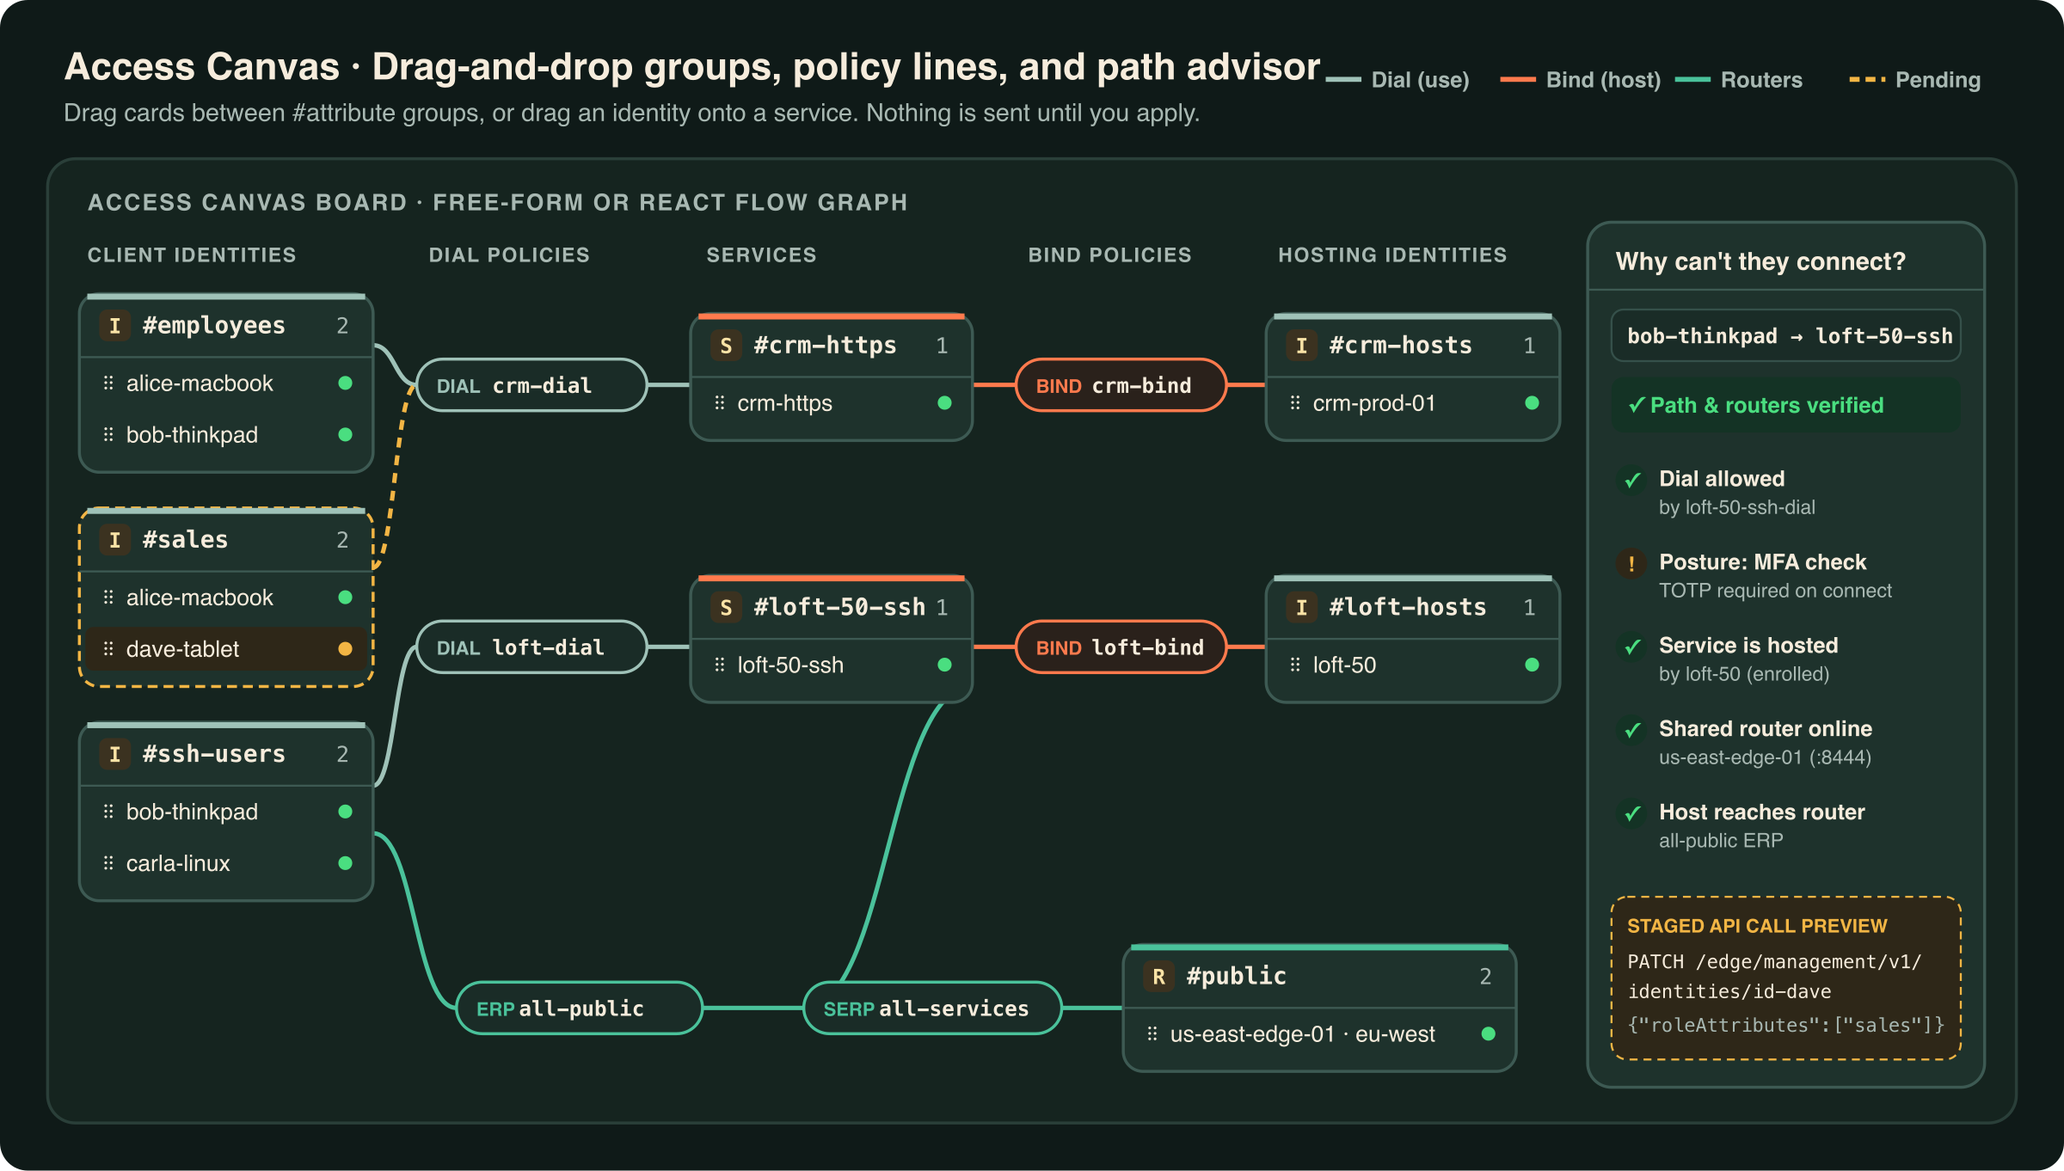
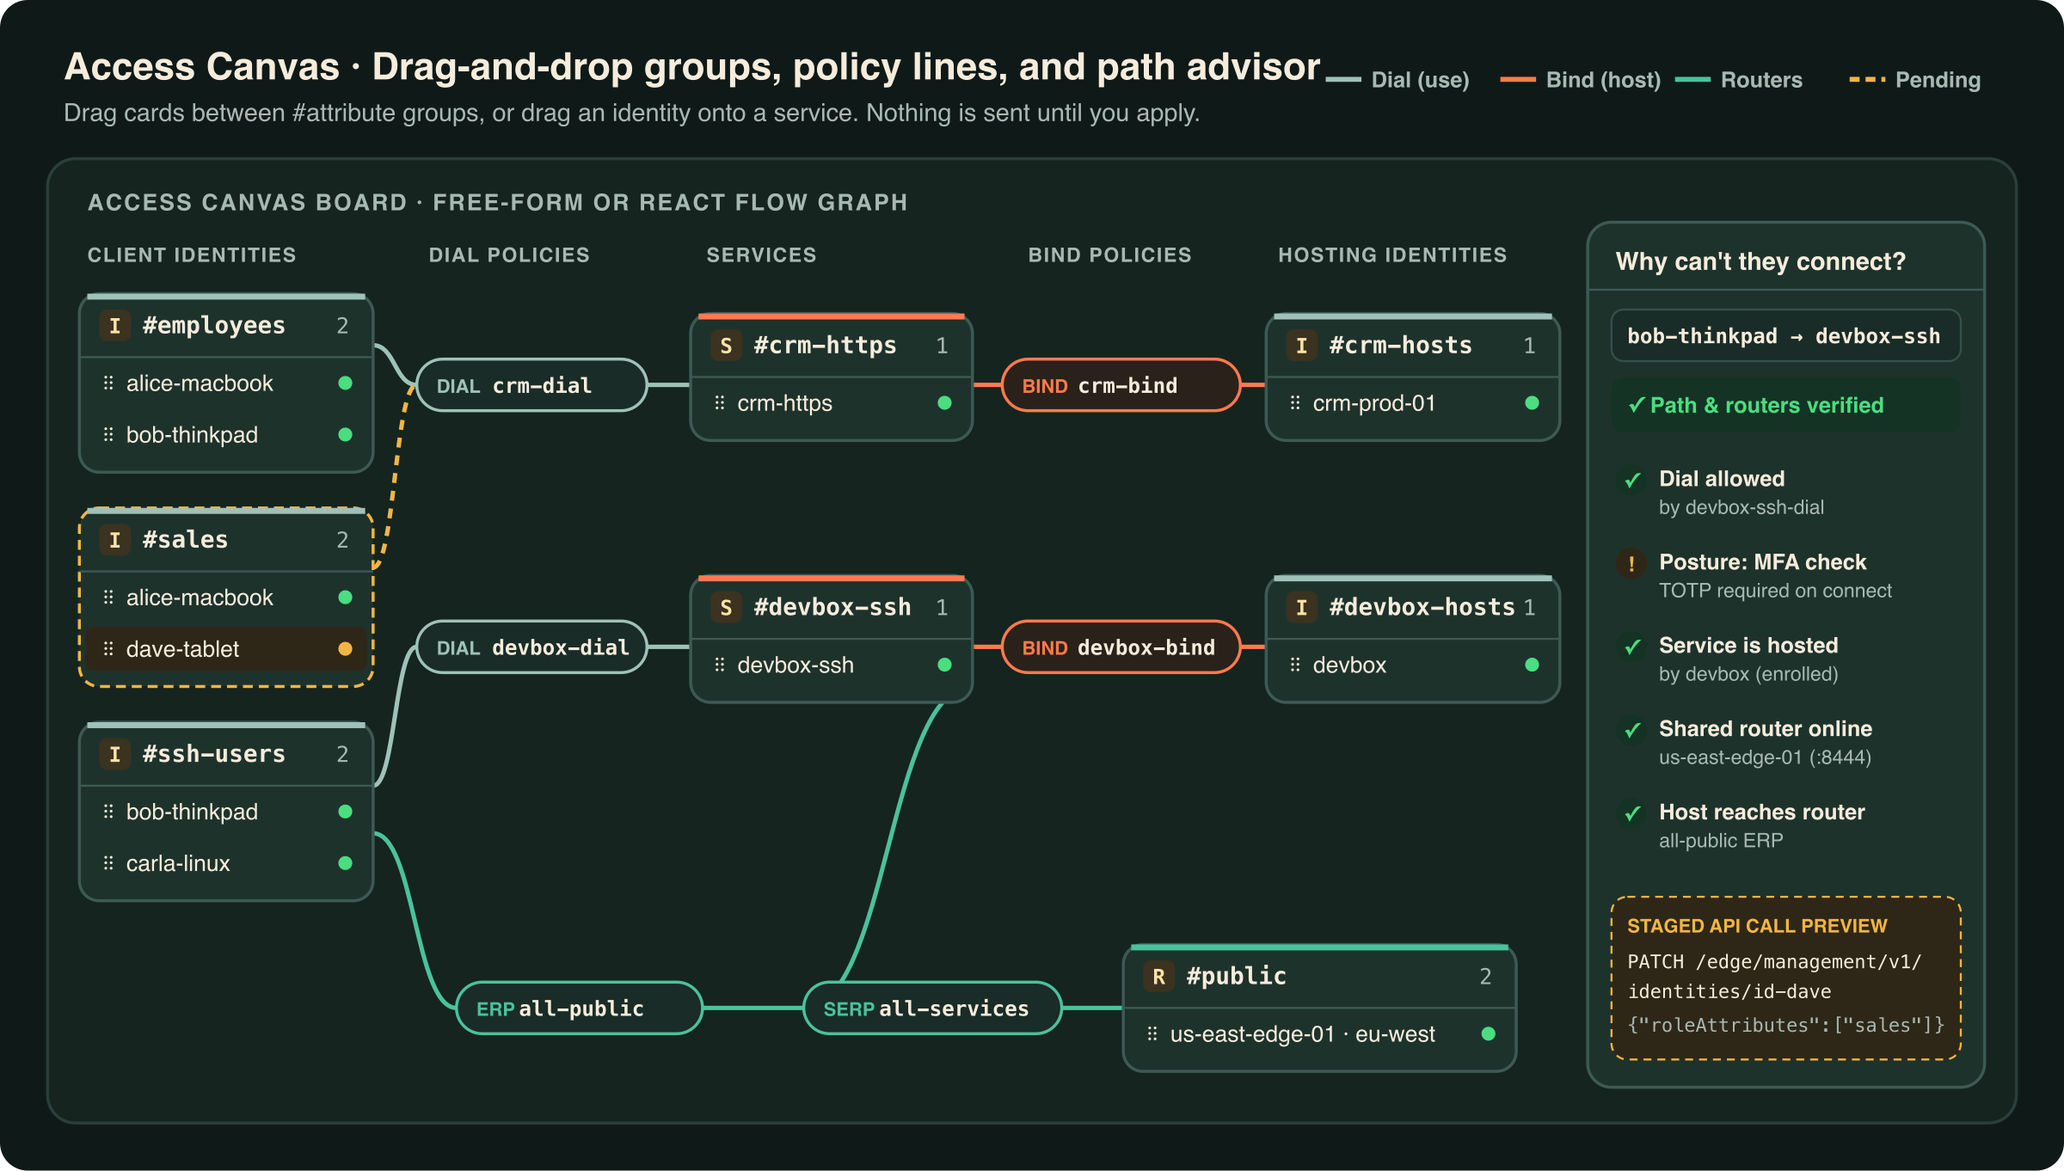
Prepare repository for public release
- Rename the loft-50 sample host to devbox in demo data, tests, README and diagrams
- Add CONTRIBUTING.md and link it from the README
- Set version 0.1.0 and repository, homepage and bugs fields
- Pin CI actions to commit SHAs and add Dependabot for npm and Actions

diff --git a/src/features/access-canvas/access-wizard.logic.spec.ts b/src/features/access-canvas/access-wizard.logic.spec.ts
@@ -10,7 +10,7 @@ function model(withRouterPolicies = true): AcModel {
       { id: 'i2', name: 'dev-macbook-pro', attrs: [], enrolled: false, online: false, isAdmin: false },
       { id: 'adm', name: 'admin', attrs: [], enrolled: true, online: false, isAdmin: true },
     ],
-    services: [{ id: 's1', name: 'loft-50-ssh', attrs: ['ssh'], configs: [] }],
+    services: [{ id: 's1', name: 'devbox-ssh', attrs: ['ssh'], configs: [] }],
     routers: [{ id: 'r1', name: 'router-instance-1', attrs: [], online: true }],
     servicePolicies: [],
     erPolicies: withRouterPolicies
@@ -58,12 +58,12 @@ describe('access-wizard.logic', () => {
   });
 
   it('rejects names that already exist and bad ports', () => {
-    const w = blankInput('ssh', 'loft-50');
+    const w = blankInput('ssh', 'devbox');
     w.interceptPort = 70000;
     const fields = validate(model(), w).map((c) => c.field);
     expect(fields).toContain('serviceName');
     expect(fields).toContain('interceptPort');
-    w.serviceName = 'loft-50-ssh2';
+    w.serviceName = 'devbox-ssh2';
     w.interceptPort = 22;
     expect(validate(model(), w).map((c) => c.field)).toEqual(['newUserName']);
     w.newUserName = 'jdoe-laptop';
@@ -222,19 +222,19 @@ describe('access-wizard.logic', () => {
 
   it('allows updating and repairing existing service, configs, and policies when reuseExisting is enabled', () => {
     const m = model();
-    m.configs = [{ id: 'cfg-ic', name: 'loft-50-ssh.intercept.v1' }];
+    m.configs = [{ id: 'cfg-ic', name: 'devbox-ssh.intercept.v1' }];
     m.servicePolicies = [
       {
         id: 'sp-bind',
-        name: 'loft-50-ssh-bind',
+        name: 'devbox-ssh-bind',
         type: 'Bind',
         semantic: 'AnyOf',
         identityRoles: ['#legacy-hosts'],
-        serviceRoles: ['#loft-50-ssh'],
+        serviceRoles: ['#devbox-ssh'],
         posture: [],
       },
     ];
-    const w = blankInput('ssh', 'loft-50');
+    const w = blankInput('ssh', 'devbox');
     w.hostMode = 'existing';
     w.hostId = 'i1';
     w.userMode = 'existing';
@@ -244,20 +244,20 @@ describe('access-wizard.logic', () => {
     expect(validate(m, w)).toEqual([]);
     const p = plan(m, w, ids());
 
-    const icOp = p.ops.find((o) => o.op === 'createConfig' && o.config.name === 'loft-50-ssh.intercept.v1') as any;
-    const hcOp = p.ops.find((o) => o.op === 'createConfig' && o.config.name === 'loft-50-ssh.host.v1') as any;
+    const icOp = p.ops.find((o) => o.op === 'createConfig' && o.config.name === 'devbox-ssh.intercept.v1') as any;
+    const hcOp = p.ops.find((o) => o.op === 'createConfig' && o.config.name === 'devbox-ssh.host.v1') as any;
     const svcOp = p.ops.find((o) => o.op === 'createService') as any;
     const bindOp = p.ops.find((o) => o.op === 'createPolicy' && o.policy.type === 'Bind') as any;
     expect(icOp.config.existingId).toBe('cfg-ic');
     expect(hcOp.config.existingId).toBeUndefined();
     expect(svcOp.service.existingId).toBe('s1');
-    expect(svcOp.service.attrs).toEqual(['ssh', 'loft-50-ssh']);
+    expect(svcOp.service.attrs).toEqual(['ssh', 'devbox-ssh']);
     expect(bindOp.policy.existingId).toBe('sp-bind');
-    expect(bindOp.policy.identityRoles).toEqual(['#legacy-hosts', '#loft-50-ssh-hosts']);
-    expect(p.items.find((it) => it.name === 'loft-50-ssh')?.existing).toBe(true);
+    expect(bindOp.policy.identityRoles).toEqual(['#legacy-hosts', '#devbox-ssh-hosts']);
+    expect(p.items.find((it) => it.name === 'devbox-ssh')?.existing).toBe(true);
 
     const after = applyOps(clone(m), p.ops);
-    expect(after.services.filter((s) => s.name === 'loft-50-ssh')).toHaveLength(1);
+    expect(after.services.filter((s) => s.name === 'devbox-ssh')).toHaveLength(1);
     expect(hostsFor(after, after.services.find((s) => s.id === 's1')!).map((h) => h.id)).toEqual(['i1']);
     expect(dialFor(after, after.identities.find((i) => i.id === 'i2')!, after.services.find((s) => s.id === 's1')!).length).toBe(1);
   });

diff --git a/src/services/demo-store.ts b/src/services/demo-store.ts
@@ -53,15 +53,15 @@ export function createInitialDemoStore(): RawDemoStore {
       },
       {
         id: 'cfg-ssh-intercept',
-        name: 'loft-50-ssh.intercept.v1',
+        name: 'devbox-ssh.intercept.v1',
         configTypeId: 'ct-intercept-v1',
         configType: { name: 'intercept.v1' },
-        data: { protocols: ['tcp'], addresses: ['loft-50.ziti'], portRanges: [{ low: 22, high: 22 }] },
+        data: { protocols: ['tcp'], addresses: ['devbox.ziti'], portRanges: [{ low: 22, high: 22 }] },
         createdAt: now,
       },
       {
         id: 'cfg-ssh-host',
-        name: 'loft-50-ssh.host.v1',
+        name: 'devbox-ssh.host.v1',
         configTypeId: 'ct-host-v1',
         configType: { name: 'host.v1' },
         data: { protocol: 'tcp', address: '127.0.0.1', port: 22 },
@@ -169,12 +169,12 @@ export function createInitialDemoStore(): RawDemoStore {
         createdAt: now,
       },
       {
-        id: 'id-loft-host',
-        name: 'loft-50',
+        id: 'id-devbox-host',
+        name: 'devbox',
         typeId: 'Default',
         type: { name: 'Default' },
         isAdmin: false,
-        roleAttributes: ['loft-50-ssh-hosts'],
+        roleAttributes: ['devbox-ssh-hosts'],
         authenticators: { cert: { id: 'auth-6' } },
         enrollment: {},
         hasEdgeRouterConnection: true,
@@ -225,8 +225,8 @@ export function createInitialDemoStore(): RawDemoStore {
       },
       {
         id: 'svc-ssh',
-        name: 'loft-50-ssh',
-        roleAttributes: ['loft-50-ssh', 'ssh'],
+        name: 'devbox-ssh',
+        roleAttributes: ['devbox-ssh', 'ssh'],
         configs: ['cfg-ssh-intercept', 'cfg-ssh-host'],
         encryptionRequired: true,
         terminatorStrategy: 'smartrouting',
@@ -319,22 +319,22 @@ export function createInitialDemoStore(): RawDemoStore {
       },
       {
         id: 'sp-ssh-dial',
-        name: 'loft-50-ssh-dial',
+        name: 'devbox-ssh-dial',
         type: 'Dial',
         semantic: 'AnyOf',
         identityRoles: ['#ssh-users', '#sre'],
-        serviceRoles: ['#loft-50-ssh'],
+        serviceRoles: ['#devbox-ssh'],
         postureCheckRoles: ['#mfa-required'],
         postureCheckRolesDisplay: [{ name: 'MFA Required', role: '#mfa-required' }],
         createdAt: now,
       },
       {
         id: 'sp-ssh-bind',
-        name: 'loft-50-ssh-bind',
+        name: 'devbox-ssh-bind',
         type: 'Bind',
         semantic: 'AnyOf',
-        identityRoles: ['#loft-50-ssh-hosts'],
-        serviceRoles: ['#loft-50-ssh'],
+        identityRoles: ['#devbox-ssh-hosts'],
+        serviceRoles: ['#devbox-ssh'],
         postureCheckRoles: [],
         createdAt: now,
       },
@@ -453,11 +453,11 @@ export function createInitialDemoStore(): RawDemoStore {
       {
         id: 'term-ssh-1',
         serviceId: 'svc-ssh',
-        service: { name: 'loft-50-ssh' },
+        service: { name: 'devbox-ssh' },
         routerId: 'er-us-east',
         router: { name: 'us-east-edge-01' },
         binding: 'edge',
-        address: 'hosted:id-loft-host',
+        address: 'hosted:id-devbox-host',
         cost: 0,
         precedence: 'default',
         createdAt: now,
@@ -487,7 +487,7 @@ export function createInitialDemoStore(): RawDemoStore {
       {
         id: 'sess-02',
         serviceId: 'svc-ssh',
-        service: { name: 'loft-50-ssh' },
+        service: { name: 'devbox-ssh' },
         identityId: 'id-bob',
         type: 'Dial',
         createdAt: now,

diff --git a/src/features/services/service-configs.spec.ts b/src/features/services/service-configs.spec.ts
@@ -98,10 +98,10 @@ describe('service config rules', () => {
       },
       {
         id: 'c-ssh-ic',
-        name: 'loft-ssh.intercept.v1',
+        name: 'devbox-ssh.intercept.v1',
         configTypeId: 't-int',
         configType: { name: 'intercept.v1' },
-        data: { protocols: ['tcp'], addresses: ['loft-50.ziti'], portRanges: [{ low: 22, high: 22 }] },
+        data: { protocols: ['tcp'], addresses: ['devbox.ziti'], portRanges: [{ low: 22, high: 22 }] },
       },
     ];
 
@@ -121,8 +121,8 @@ describe('service config rules', () => {
       protocol: 'tcp',
     });
 
-    expect(describeServiceEndpoint({ name: 'loft-50-ssh', configs: ['c-ssh-ic'] }, cfgs)).toEqual({
-      interceptDisplay: 'loft-50.ziti:22',
+    expect(describeServiceEndpoint({ name: 'devbox-ssh', configs: ['c-ssh-ic'] }, cfgs)).toEqual({
+      interceptDisplay: 'devbox.ziti:22',
       hostDisplay: undefined,
       url: undefined,
       protocol: 'tcp',

diff --git a/src/features/access-canvas/AccessWizard.tsx b/src/features/access-canvas/AccessWizard.tsx
@@ -308,7 +308,7 @@ export const AccessWizard: React.FC<AccessWizardProps> = ({ open, model, newId =
                 <input
                   value={w.system}
                   onChange={(e) => resuggest(w.templateId, e.target.value, edited, w)}
-                  placeholder="e.g. loft-50, billing, crm-prod"
+                  placeholder="e.g. devbox, billing, crm-prod"
                   autoFocus
                   className="w-full px-3 py-2 rounded-lg border border-[var(--ac-line)] bg-[var(--ac-surface-2)] text-sm text-[var(--ac-ink)]"
                 />

diff --git a/src/features/access-canvas/CanvasToolbar.tsx b/src/features/access-canvas/CanvasToolbar.tsx
@@ -96,7 +96,7 @@ export const CanvasToolbar: React.FC<{
       <Search className="w-3.5 h-3.5 text-[var(--ac-muted)] absolute left-3 pointer-events-none" />
       <input
         type="search"
-        placeholder="Filter by name, e.g. loft or crm"
+        placeholder="Filter by name, e.g. devbox or crm"
         value={p.filters.search}
         onChange={(e) => p.setFilters((prev) => ({ ...prev, search: e.target.value }))}
         onKeyDown={(e) => {

diff --git a/scripts/diagrams/build_diagrams.py b/scripts/diagrams/build_diagrams.py
@@ -158,8 +158,8 @@ def access_canvas(t):
         t,
         "Access Canvas · Free-form drag-and-drop board, policy hubs, and live reachability advisor",
         "Client identity groups (#employees, #sales, #ssh-users) connect through Dial policy hubs to zero-trust "
-        "service groups (#crm-https, #loft-50-ssh), which connect through Bind policy hubs to hosting identities "
-        "(#crm-https-hosts, #loft-50-hosts) and Edge Router policies underneath. A floating right drawer diagnoses "
+        "service groups (#crm-https, #devbox-ssh), which connect through Bind policy hubs to hosting identities "
+        "(#crm-https-hosts, #devbox-hosts) and Edge Router policies underneath. A floating right drawer diagnoses "
         "why an identity can or cannot reach a service and previews staged REST API calls.",
     )
     s.text(32, 40, "Access Canvas · Drag-and-drop groups, policy lines, and path advisor", size=19, weight=700)
@@ -248,19 +248,19 @@ def access_canvas(t):
 
     # Col 1: Dial Policy Hubs
     hub_pill(210, 181, 116, "DIAL", "crm-dial", "http")
-    hub_pill(210, 313, 116, "DIAL", "loft-dial", "http")
+    hub_pill(210, 313, 116, "DIAL", "devbox-dial", "http")
 
     # Col 2: Service Groups
     group_box(348, 158, 142, "S", "overlay", "crm-https", 1, [("crm-https", "ok")])
-    group_box(348, 290, 142, "S", "overlay", "loft-50-ssh", 1, [("loft-50-ssh", "ok")])
+    group_box(348, 290, 142, "S", "overlay", "devbox-ssh", 1, [("devbox-ssh", "ok")])
 
     # Col 3: Bind Policy Hubs
-    hub_pill(512, 181, 106, "BIND", "crm-bind", "overlay")
-    hub_pill(512, 313, 106, "BIND", "loft-bind", "overlay")
+    hub_pill(505, 181, 120, "BIND", "crm-bind", "overlay")
+    hub_pill(505, 313, 120, "BIND", "devbox-bind", "overlay")
 
     # Col 4: Hosting Identities
     group_box(638, 158, 148, "I", "http", "crm-hosts", 1, [("crm-prod-01", "ok")])
-    group_box(638, 290, 148, "I", "http", "loft-hosts", 1, [("loft-50", "ok")])
+    group_box(638, 290, 148, "I", "http", "devbox-hosts", 1, [("devbox", "ok")])
 
     # Bottom Router Band
     hub_pill(230, 495, 124, "ERP", "all-public", "router")
@@ -274,15 +274,15 @@ def access_canvas(t):
     s.add(f'<line x1="{dx}" y1="{dy + 34}" x2="{dx + dw}" y2="{dy + 34}" stroke="{t["card_line"]}" stroke-width="1"/>')
 
     s.add(f'<rect x="{dx + 12}" y="{dy + 44}" width="{dw - 24}" height="26" rx="6" fill="{t["inner"]}" stroke="{t["inner_line"]}"/>')
-    s.text(dx + 20, dy + 61, "bob-thinkpad → loft-50-ssh", size=10.5, weight=600, mono=True)
+    s.text(dx + 20, dy + 61, "bob-thinkpad → devbox-ssh", size=10.5, weight=600, mono=True)
 
     s.add(f'<rect x="{dx + 12}" y="{dy + 78}" width="{dw - 24}" height="28" rx="6" fill="{t["ok_bg"]}"/>')
     s.text(dx + 20, dy + 96, "✓ Path & routers verified", size=11, color="ok", weight=700)
 
     steps = [
-        ("ok", "Dial allowed", "by loft-50-ssh-dial"),
+        ("ok", "Dial allowed", "by devbox-ssh-dial"),
         ("pending", "Posture: MFA check", "TOTP required on connect"),
-        ("ok", "Service is hosted", "by loft-50 (enrolled)"),
+        ("ok", "Service is hosted", "by devbox (enrolled)"),
         ("ok", "Shared router online", "us-east-edge-01 (:8444)"),
         ("ok", "Host reaches router", "all-public ERP"),
     ]

diff --git a/README.md b/README.md
@@ -36,7 +36,7 @@ Drag cards between `#attribute` groups, or drag an identity onto a service. Line
 
 <picture>
   <source media="(prefers-color-scheme: dark)" srcset="assets/diagrams/access-canvas-on-dark.svg">
-  <img src="assets/diagrams/access-canvas.svg" alt="Access Canvas: Client identity groups (#employees, #sales, #ssh-users) connect through Dial policy hubs to zero-trust services (#crm-https, #loft-50-ssh), which connect through Bind policy hubs to hosting identities (#crm-hosts, #loft-hosts) and Edge Routers (#public). The right drawer shows the live reachability advisor and staged REST API diff." width="100%">
+  <img src="assets/diagrams/access-canvas.svg" alt="Access Canvas: Client identity groups (#employees, #sales, #ssh-users) connect through Dial policy hubs to zero-trust services (#crm-https, #devbox-ssh), which connect through Bind policy hubs to hosting identities (#crm-hosts, #devbox-hosts) and Edge Routers (#public). The right drawer shows the live reachability advisor and staged REST API diff." width="100%">
 </picture>
 
 ### Canvas Gestures & Keyboard Shortcuts
@@ -58,7 +58,7 @@ Click **＋ Set up a service** from the Access Canvas or Services page to provis
   <img src="assets/diagrams/service-wizard.svg" alt="4-Step End-to-End Service Setup Wizard: 1. Service Template, 2. Hosting Server, 3. Users & Groups, and 4. Review & Stage into Pending Changes." width="100%">
 </picture>
 
-1. **Service Template**: Pick from 16 common templates (**SSH**, **RDP**, **VNC**, **Ollama**, **HTTPS**, **HTTP**, **Internal API**, **Grafana**, **Jenkins**, **PostgreSQL**, **MySQL**, **SQL Server**, **Redis**, **SMB File Share**, **Kubernetes API**, or **Custom TCP/UDP**) and enter the system name (e.g., `loft-50`, `crm`, `billing-db`). The wizard suggests idiomatic names (`billing-db-postgres`, `billing-db.ziti:5432`).
+1. **Service Template**: Pick from 16 common templates (**SSH**, **RDP**, **VNC**, **Ollama**, **HTTPS**, **HTTP**, **Internal API**, **Grafana**, **Jenkins**, **PostgreSQL**, **MySQL**, **SQL Server**, **Redis**, **SMB File Share**, **Kubernetes API**, or **Custom TCP/UDP**) and enter the system name (e.g., `devbox`, `crm`, `billing-db`). The wizard suggests idiomatic names (`billing-db-postgres`, `billing-db.ziti:5432`).
 2. **Hosting Server**: Create a new hosting identity named after the machine (or pick an existing identity), assign the host role attribute (`#billing-db-postgres-hosts`), and set the target forward address (`127.0.0.1:5432` when `ziti-edge-tunnel` runs on the server).
 3. **Users & Groups**: Choose a suggested role attribute group (`#dbas`, `#developers`, `#sre`, `#it-admins`, `#employees`, `#sales`, etc.) and either create a new user device identity (e.g., `jdoe-laptop`) or add existing identities so someone can always use the service immediately.
 4. **Review & Stage**: Queues `<service>.intercept.v1`, `<service>.host.v1`, the service, identities, `<service>-bind`, `<service>-dial`, and automatic Edge Router / Service Edge Router policies (only when existing router policies don't already cover them) into **Pending Changes**, complete with post-apply `ziti-edge-tunnel enroll` commands.
@@ -151,6 +151,12 @@ for f in assets/logo/*.svg assets/diagrams/*.svg; do
   rsvg-convert -w 2400 "$f" -o "${f%.svg}.png"
 done
 ```
+
+---
+
+## 🤝 Contributing
+
+See [CONTRIBUTING.md](CONTRIBUTING.md) for setup, the checks to run before a pull request, and how to regenerate the diagrams and logo.
 
 ---
 

diff --git a/CONTRIBUTING.md b/CONTRIBUTING.md
@@ -1,0 +1,54 @@
+# Contributing
+
+Thanks for helping improve Baked Pasta Console. Bug reports, fixes and feature ideas are all welcome.
+
+Security problems are the exception: please report them privately as described in [SECURITY.md](SECURITY.md), not in an issue.
+
+## Getting started
+
+You need Node.js 22 (the version CI uses) and npm.
+
+```bash
+npm ci
+npm run dev
+```
+
+With no OpenZiti controller at the dev server's address, the console opens the Interactive Demo Sandbox, with sample identities, services and policies stored in your browser. To work against a real controller, choose it on the sign-in page.
+
+## Before you open a pull request
+
+Run the same checks CI runs:
+
+```bash
+npm run check      # lint, typecheck and unit tests
+npm run build      # production build, including the Content Security Policy
+```
+
+Please also:
+
+- add or update tests for logic you change; pure logic (`*.logic.ts`, `service-configs.ts`, `problem-rows.ts`) is tested with Vitest next to the code;
+- try the change in the demo sandbox, and against a controller if it touches sign-in or API calls;
+- keep pull requests focused on one change, and describe what you changed and how you checked it.
+
+## Code conventions
+
+- TypeScript throughout; `any` is not allowed outside test files. API shapes live in `src/services/api-types.ts`.
+- All controller calls go through `zitiService` in `src/services/ziti-service.ts`, which handles authentication, token refresh and the demo sandbox. Don't call `fetch` from components.
+- Changes made from the Access Canvas or the wizard are staged as operations and applied together, with automatic rollback if a step fails. Keep that model when adding new kinds of change.
+
+## Regenerating the diagrams and logo
+
+The README diagrams and the logo are generated SVGs with PNG renders. Edit the generator scripts, not the SVGs.
+
+Diagrams (Python 3 standard library only, plus `rsvg-convert` from librsvg for the PNGs):
+
+```bash
+python3 scripts/diagrams/build_diagrams.py
+for f in assets/diagrams/*.svg; do rsvg-convert -w 2400 "$f" -o "${f%.svg}.png"; done
+```
+
+Logo: this also needs Python `fontTools` and the [Fraunces](https://github.com/undercasetype/Fraunces) variable font (SIL Open Font License), whose path you pass in `FRAUNCES_TTF`. The usage notes at the top of `scripts/logo/build_logo.py` give the full commands.
+
+## License
+
+By contributing, you agree that your contributions are licensed under the [Apache License 2.0](LICENSE), the same license as the project.
